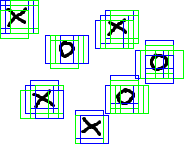
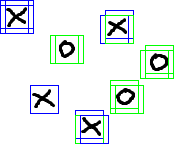
pr8 - neural detection of X and O - centering

diff --git a/pr8/use_net.py b/pr8/use_net.py
@@ -13,6 +13,20 @@ arr = np.asarray(scene)
 sz = network.sz
 step = sz//5
 
+def getCenter(img):
+    mx, my, sx, sy=0,0,0,0
+    for iy in range(0, img.shape[0]):
+        for ix in range(0, img.shape[1]):
+            v=255 - sum(img[iy,ix])/3
+            mx+=v*ix
+            my+=v*iy
+            sx+=v
+            sy+=v
+    mx/=sx
+    my/=sy
+    return [mx, my]
+
+
 for iy in range(0, arr.shape[0]-sz, step):
     print(f"y={iy} of {arr.shape[0]-sz}")
     for ix in range(0, arr.shape[1]-sz, step):
@@ -20,7 +34,11 @@ for iy in range(0, arr.shape[0]-sz, step):
         input=np.reshape(input, (1, sz, sz, network.nchannels))
         predictions = net.predict(input)[0]
         ind=np.argmax(predictions)
-        if ind<2 and predictions[ind]>0.99 and predictions[2]<0.5:
+        cx, cy=getCenter(input[0])
+        #для центровки образа
+        d=max(abs(cx-input.shape[1]//2), abs(cy-input.shape[1]//2))
+
+        if ind<2 and predictions[ind]>0.99 and predictions[2]<0.5 and d<3:
             color=(255,0,0) if ind==0 else (0,255,0)
             cv2.rectangle(scene, (ix, iy), (ix+sz, iy+sz), color, 1)
 
